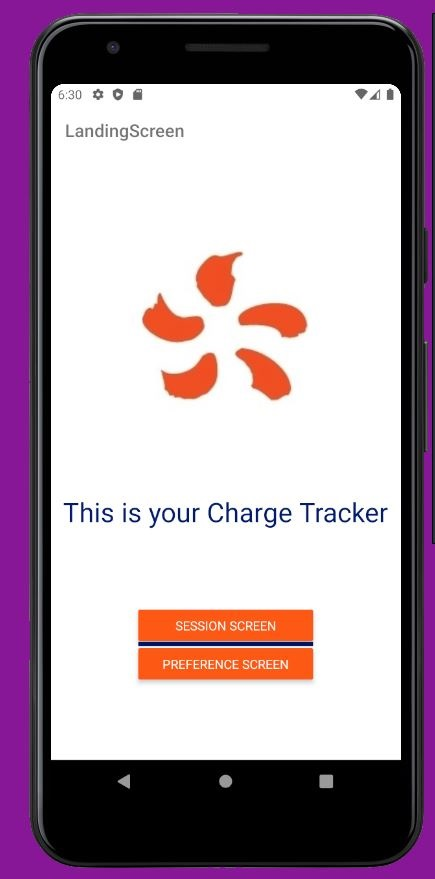
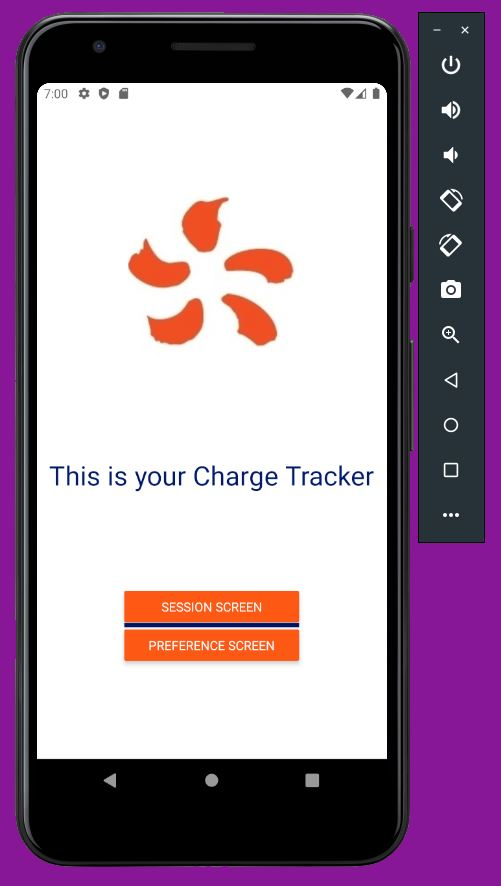
.

diff --git a/App.js b/App.js
@@ -22,7 +22,7 @@ export default function App() {
     <NavigationContainer theme={MyTheme}>
       <Stack.Navigator>
         <Stack.Screen
-          screenOptions={{
+          options={{
             headerShown: false,
           }}
           name="LandingScreen"
